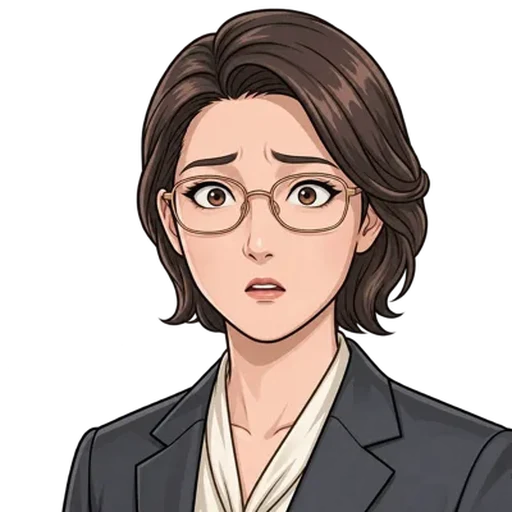
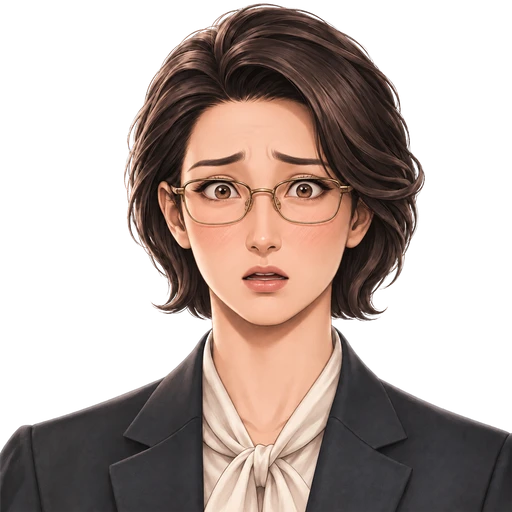
상대방 대리인 그림을 검사·주인공과 같은 그림체로 다시 그림(Codex)

diff --git a/sw.js b/sw.js
@@ -2,7 +2,7 @@
 // 앱(화면 파일)은 배포할 때마다 새 판으로 바꾸고, 그림(assets/)은 버전과 상관없는 따로 된 저장소에 둔다.
 // 그래서 배포해도 이미 받은 그림은 다시 받지 않는다. 그림은 저장해 둔 것을 바로 보여 주고, 뒤에서 바뀌었는지만 확인한다.
 // 같은 이름의 그림을 다시 그려 바꿨을 때도 다음 실행부터 새 그림이 보인다(뒤에서 확인한 결과).
-const CACHE = "truth-v1796590000000";
+const CACHE = "truth-v1796600000000";
 const IMG = "truth-img-3";
 // 음악(bgm/)도 그림처럼 버전과 상관없는 저장소에 둔다. 처음 들을 때는 인터넷으로 바로 틀고, 뒤에서 곡 전체를 받아 저장한다.
 // 저장된 뒤에는 저장한 곡에서 필요한 부분(Range)을 잘라 준다. 그래서 데이터가 끊겨도 음악이 멈추지 않는다
@@ -19,7 +19,7 @@ self.addEventListener("install", e => {
   })());
 });
 // 같은 이름으로 다시 그린 그림: 새 판이 설치되면 저장해 둔 옛 그림을 지워서 바로 새 그림을 받게 한다
-const REDRAWN = ["./assets/pros.webp","./assets/cut/f-mom.webp","./assets/expr/prosecutor_neutral.webp","./assets/expr/prosecutor_confident.webp","./assets/expr/prosecutor_flustered.webp","./assets/expr/prosecutor_serious.webp","./assets/end-top-f.jpg","./assets/end-top-m.jpg","./assets/expr/hero-f_confident.webp","./assets/expr/hero-f_flustered.webp","./assets/expr/hero-f_neutral.webp","./assets/expr/hero-f_relieved.webp","./assets/expr/hero-f_serious.webp","./assets/expr/hero-m_confident.webp","./assets/expr/hero-m_flustered.webp","./assets/expr/hero-m_neutral.webp","./assets/expr/hero-m_relieved.webp","./assets/expr/hero-m_serious.webp","./assets/hero-f.webp","./assets/hero-m.webp","./assets/op/o1-f.webp","./assets/op/o1-m.webp","./assets/op/o2-f.webp","./assets/op/o2-m.webp","./assets/ops-end/grade-a-f.jpg","./assets/ops-end/grade-a-m.jpg","./assets/ops-end/grade-b-f.jpg","./assets/ops-end/grade-b-m.jpg","./assets/ops-end/grade-c-f.jpg","./assets/ops-end/grade-c-m.jpg","./assets/ops-end/grade-d-f.jpg","./assets/ops-end/grade-d-m.jpg","./assets/ops-end/grade-s-f.jpg","./assets/ops-end/grade-s-m.jpg","./assets/pc/end-top-f.jpg","./assets/pc/end-top-m.jpg","./assets/story/cut/hero-f.webp","./assets/story/cut/hero-m.webp"];
+const REDRAWN = ["./assets/expr/opponent_serious.webp","./assets/expr/opponent_flustered.webp","./assets/expr/opponent_confident.webp","./assets/expr/opponent_neutral.webp","./assets/opp.webp","./assets/pros.webp","./assets/cut/f-mom.webp","./assets/expr/prosecutor_neutral.webp","./assets/expr/prosecutor_confident.webp","./assets/expr/prosecutor_flustered.webp","./assets/expr/prosecutor_serious.webp","./assets/end-top-f.jpg","./assets/end-top-m.jpg","./assets/expr/hero-f_confident.webp","./assets/expr/hero-f_flustered.webp","./assets/expr/hero-f_neutral.webp","./assets/expr/hero-f_relieved.webp","./assets/expr/hero-f_serious.webp","./assets/expr/hero-m_confident.webp","./assets/expr/hero-m_flustered.webp","./assets/expr/hero-m_neutral.webp","./assets/expr/hero-m_relieved.webp","./assets/expr/hero-m_serious.webp","./assets/hero-f.webp","./assets/hero-m.webp","./assets/op/o1-f.webp","./assets/op/o1-m.webp","./assets/op/o2-f.webp","./assets/op/o2-m.webp","./assets/ops-end/grade-a-f.jpg","./assets/ops-end/grade-a-m.jpg","./assets/ops-end/grade-b-f.jpg","./assets/ops-end/grade-b-m.jpg","./assets/ops-end/grade-c-f.jpg","./assets/ops-end/grade-c-m.jpg","./assets/ops-end/grade-d-f.jpg","./assets/ops-end/grade-d-m.jpg","./assets/ops-end/grade-s-f.jpg","./assets/ops-end/grade-s-m.jpg","./assets/pc/end-top-f.jpg","./assets/pc/end-top-m.jpg","./assets/story/cut/hero-f.webp","./assets/story/cut/hero-m.webp"];
 self.addEventListener("activate", e => { e.waitUntil(caches.open(IMG).then(c => Promise.all(REDRAWN.map(u => c.delete(u, { ignoreSearch: true })))).then(() => caches.keys()).then(ks => Promise.all(ks.filter(k => k !== CACHE && k !== IMG && k !== MUS).map(k => caches.delete(k)))).then(() => self.clients.claim())); });
 self.addEventListener("fetch", e => {
   if (e.request.method !== "GET") return;
